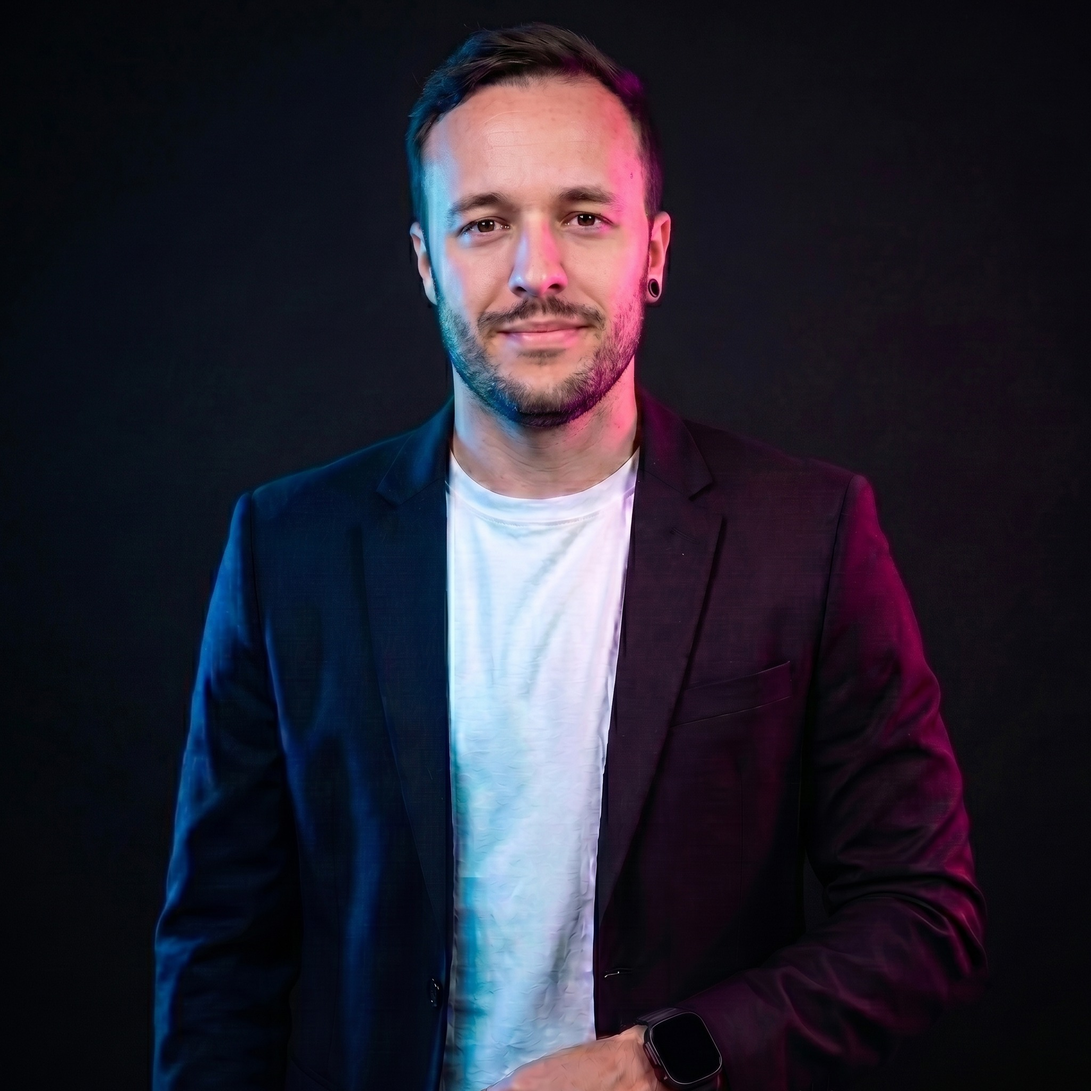
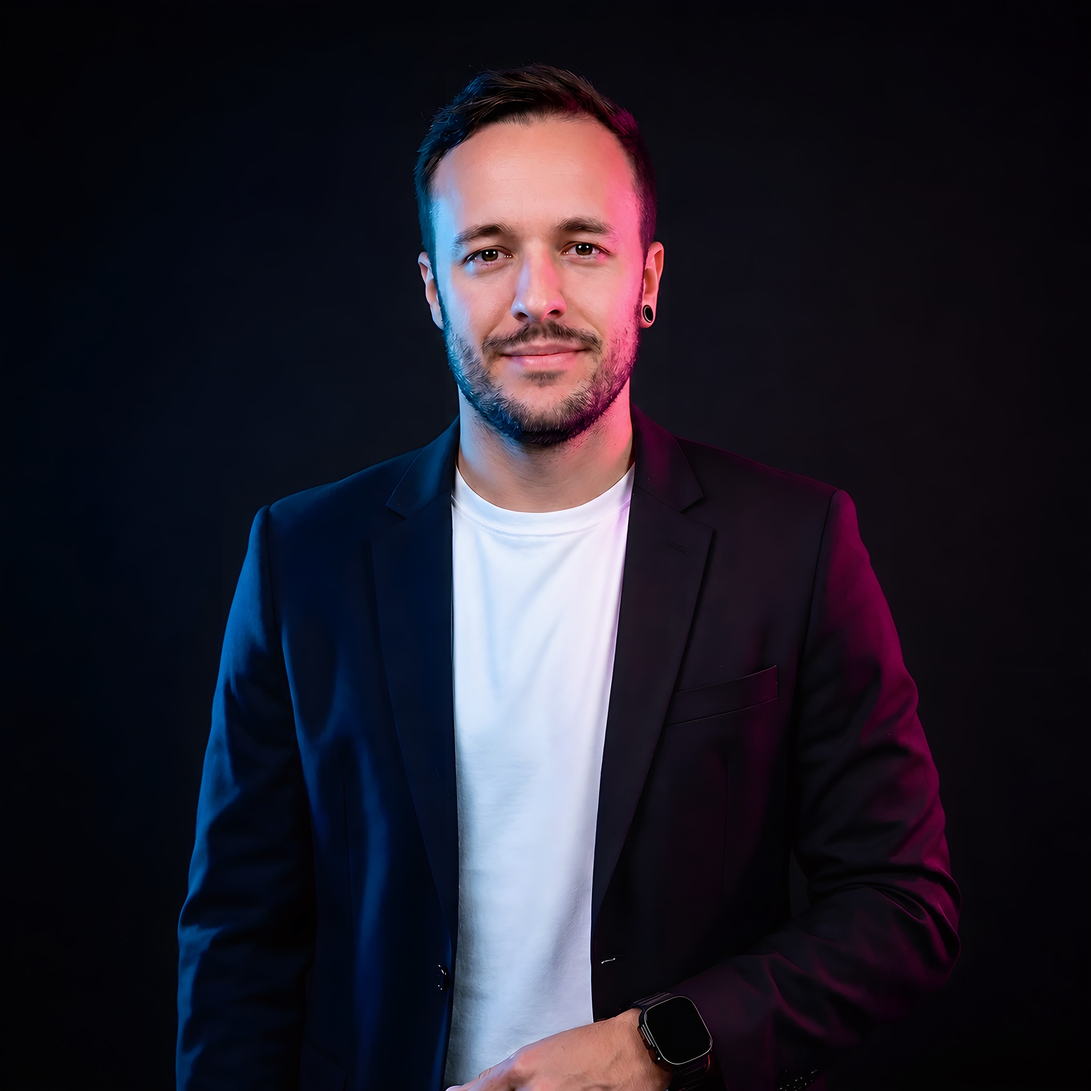
Update profile photo everywhere + add Dovetail + Design Foundation AI
- New upscaled portrait (2508px source) replaces both rafael-profile.jpg
  (About hero, 2048x2048) and rafael-2026.png (Home, 1400x1400).
- Core tools: added Dovetail.
- Education: added Design Foundation AI (UX Unicornio, in progress).

diff --git a/app/about/page.tsx b/app/about/page.tsx
@@ -609,6 +609,7 @@ export default function AboutPage() {
                 {[
                   { year: "Now", school: "McKinsey · Forward Program", degree: "Leadership & Management", current: true },
                   { year: "Now", school: "UX Unicornio", degree: "AI for Product Design", current: true },
+                  { year: "Now", school: "UX Unicornio", degree: "Design Foundation AI", current: true },
                   { year: "2020", school: "UX Unicornio", degree: "Master-Level Product Design", current: false },
                   { year: "2019", school: "Belas Artes", degree: "Post-Graduation · Digital Design", current: false },
                   { year: "2016", school: "Universidade Anhembi Morumbi", degree: "Graduation · Digital Design", current: false },
@@ -663,7 +664,7 @@ export default function AboutPage() {
                 <div style={{ marginTop: "2.5rem" }}>
                   <p style={{ fontSize: ".7rem", fontWeight: 600, letterSpacing: ".18em", textTransform: "uppercase", color: "#0071e3", marginBottom: "1.25rem" }}>Core tools</p>
                   <div style={{ display: "flex", flexWrap: "wrap", gap: ".5rem" }}>
-                    {["Figma", "Maze", "Hotjar", "Mixpanel", "Jira", "Notion", "Claude Code", "ChatGPT", "Cursor", "Midjourney"].map(t => (
+                    {["Figma", "Maze", "Hotjar", "Dovetail", "Mixpanel", "Jira", "Notion", "Claude Code", "ChatGPT", "Cursor", "Midjourney"].map(t => (
                       <span key={t} style={{ fontSize: ".72rem", fontWeight: 500, padding: ".3rem .75rem", borderRadius: 100, border: "1px solid rgba(255,255,255,.1)", color: "rgba(255,255,255,.6)" }}>{t}</span>
                     ))}
                   </div>
